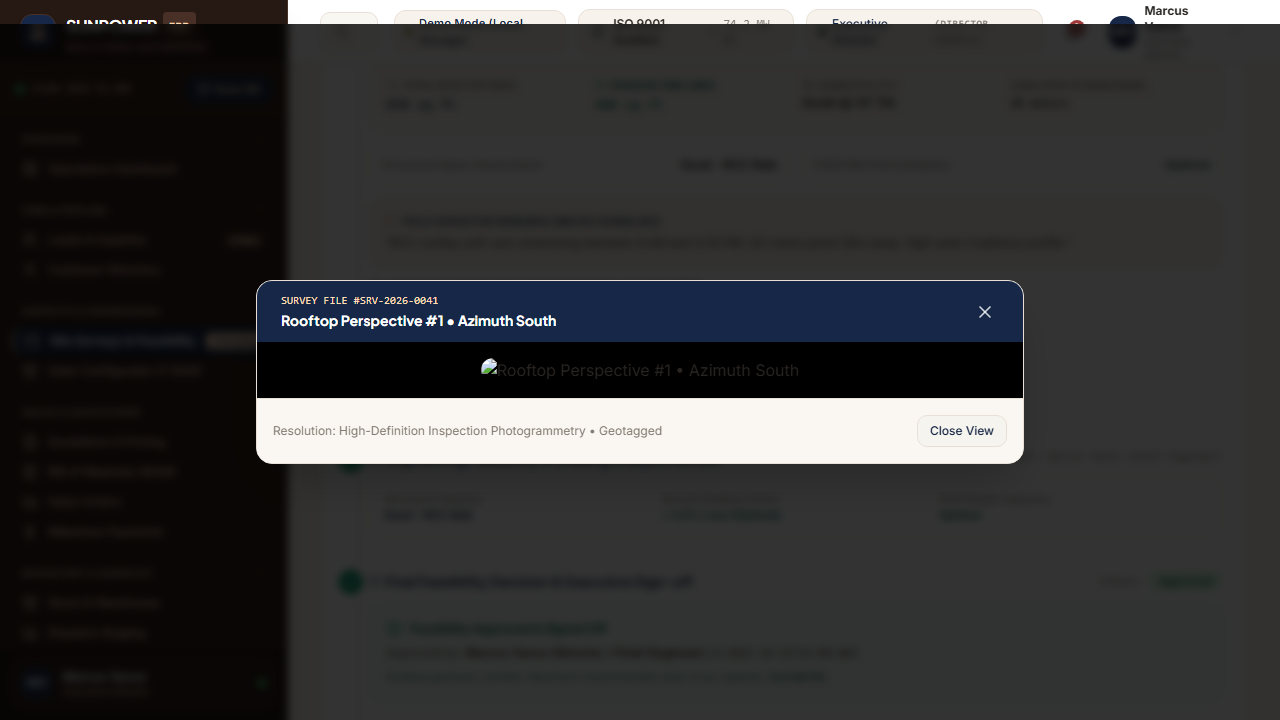
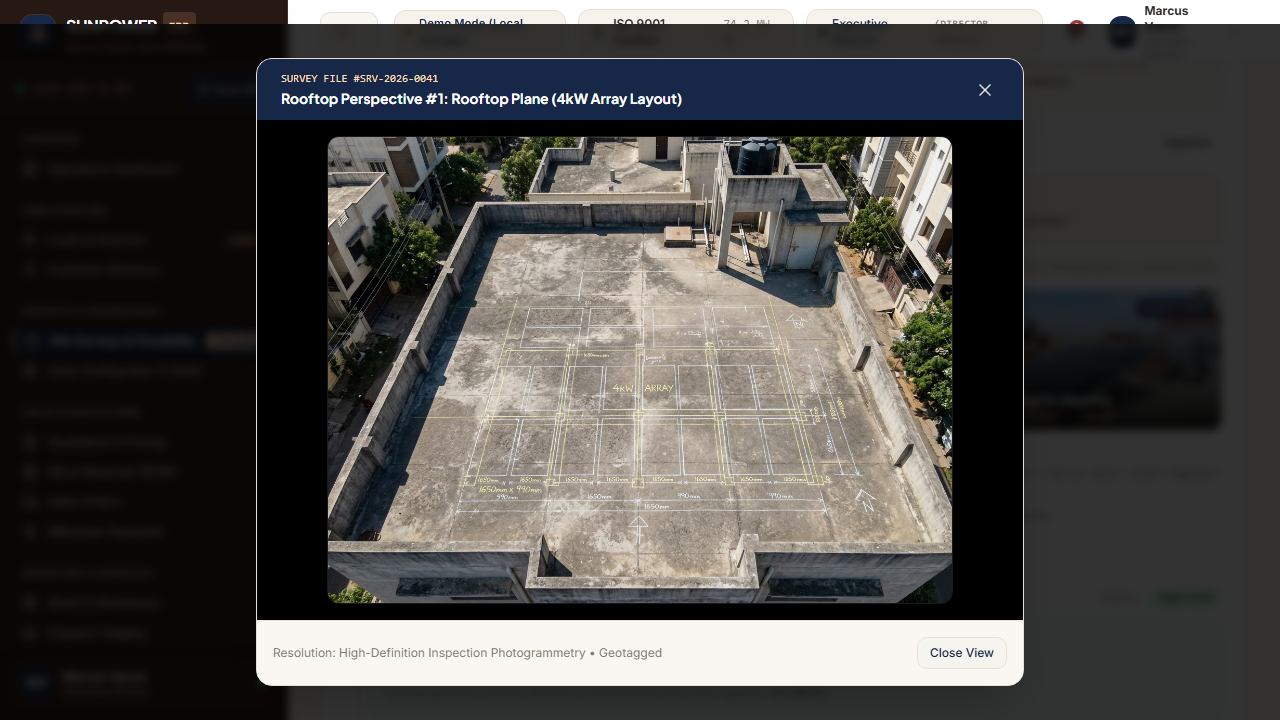
feat(surveys): add high-resolution rooftop inspection photogrammetry photos and enhance gallery UI

diff --git a/src/pages/app/surveys/SurveysPage.tsx b/src/pages/app/surveys/SurveysPage.tsx
@@ -732,48 +732,103 @@ export function SurveysPage() {
                                   </div>
 
                                   {/* Rooftop Inspection Photographs */}
-                                  <div className="space-y-2">
-                                    <span className="font-bold text-[#172747] uppercase tracking-wider text-[11px] flex items-center gap-1.5">
-                                      <Camera className="h-3.5 w-3.5 text-[#172747]" />
-                                      Rooftop Inspection Photographs ({survey.photos.length} Captured)
-                                    </span>
+                                  <div className="space-y-2.5">
+                                    <div className="flex items-center justify-between">
+                                      <span className="font-bold text-[#172747] uppercase tracking-wider text-[11px] flex items-center gap-1.5">
+                                        <Camera className="h-3.5 w-3.5 text-[#172747]" />
+                                        Rooftop Inspection Photographs ({survey.photos && survey.photos.length > 0 ? survey.photos.length : 3} Captured)
+                                      </span>
+                                      <span className="text-[10px] font-mono text-[#827B73] bg-[#FAF7F2] px-2 py-0.5 rounded border border-[#E8E0D6]">
+                                        Drone Photogrammetry • Azimuth {survey.roofDirection}
+                                      </span>
+                                    </div>
 
-                                    {survey.photos.length > 0 ? (
-                                      <div className="grid grid-cols-2 sm:grid-cols-4 gap-2.5">
-                                        {survey.photos.map((src, i) => (
-                                          <button
-                                            key={i}
-                                            type="button"
-                                            aria-label={`View full rooftop photograph ${i + 1}`}
-                                            onClick={() =>
-                                              setActivePhotoModal({
-                                                src,
-                                                title: `Rooftop Perspective #${i + 1} • Azimuth ${survey.roofDirection}`,
-                                                surveyNo: survey.surveyNo,
-                                              })
-                                            }
-                                            className="group/photo relative rounded-xl overflow-hidden h-28 border border-[#E8E0D6] cursor-pointer shadow-sm hover:border-[#172747] transition-all text-left focus:outline-none focus:ring-2 focus:ring-[#172747]"
-                                          >
-                                            <img
-                                              src={src}
-                                              alt={`Rooftop inspection photograph ${i + 1}`}
-                                              className="w-full h-full object-cover group-hover/photo:scale-105 transition-transform duration-300 pointer-events-none"
-                                            />
-                                            <div className="absolute inset-0 bg-black/40 opacity-0 group-hover/photo:opacity-100 transition-opacity flex items-center justify-center text-white gap-1 text-xs font-semibold pointer-events-none">
-                                              <Eye className="h-4 w-4" />
-                                              <span>Enlarge</span>
-                                            </div>
-                                            <span className="absolute bottom-1 right-1 bg-black/75 text-white text-[9px] px-1.5 py-0.5 rounded font-mono pointer-events-none">
-                                              Photo #{i + 1}
-                                            </span>
-                                          </button>
-                                        ))}
-                                      </div>
-                                    ) : (
-                                      <div className="p-4 rounded-xl bg-[#FAF7F2] border border-[#E8E0D6] text-center text-xs text-[#827B73]">
-                                        No photographs submitted for this site.
-                                      </div>
-                                    )}
+                                    {(() => {
+                                      const defaultGallery = (survey.id === 'srv-02' || survey.id === 'srv-06' || survey.id === 'srv-07')
+                                        ? [
+                                            '/images/surveys/rooftop-04-industrial-tin-shed.jpg',
+                                            '/images/surveys/rooftop-02-inclinometer-survey.jpg',
+                                            '/images/surveys/rooftop-01-rcc-survey.jpg',
+                                          ]
+                                        : [
+                                            '/images/surveys/rooftop-01-rcc-survey.jpg',
+                                            '/images/surveys/rooftop-02-inclinometer-survey.jpg',
+                                            '/images/surveys/rooftop-03-pv-array-completed.jpg',
+                                          ];
+
+                                      const rawPhotos = survey.photos && survey.photos.length > 0 ? survey.photos : defaultGallery;
+                                      const activePhotos = rawPhotos.map((p, idx) =>
+                                        p.includes('unsplash.com') ? defaultGallery[idx % defaultGallery.length] : p
+                                      );
+
+                                      const photoTags = [
+                                        'Rooftop Plane (4kW Array Layout)',
+                                        'Tilt Inclinometer Reading (14°)',
+                                        'PV Array & Inverter Mounting',
+                                        'Horizon Shading Analysis',
+                                      ];
+
+                                      return (
+                                        <div className="grid grid-cols-1 sm:grid-cols-3 gap-3">
+                                          {activePhotos.map((src, i) => {
+                                            const tagLabel = photoTags[i % photoTags.length];
+
+                                            return (
+                                              <button
+                                                key={i}
+                                                type="button"
+                                                aria-label={`View full rooftop photograph ${i + 1}`}
+                                                onClick={() =>
+                                                  setActivePhotoModal({
+                                                    src,
+                                                    title: `Rooftop Perspective #${i + 1}: ${tagLabel}`,
+                                                    surveyNo: survey.surveyNo,
+                                                  })
+                                                }
+                                                className="group/photo relative rounded-xl overflow-hidden h-36 border-2 border-[#E8E0D6] bg-black/5 cursor-pointer shadow-sm hover:border-[#172747] hover:shadow-md transition-all text-left focus:outline-none focus:ring-2 focus:ring-[#172747]"
+                                              >
+                                                <img
+                                                  src={src}
+                                                  alt={`Rooftop inspection photograph ${i + 1}`}
+                                                  onError={(e) => {
+                                                    e.currentTarget.onerror = null;
+                                                    e.currentTarget.src = '/images/surveys/rooftop-01-rcc-survey.jpg';
+                                                  }}
+                                                  className="w-full h-full object-cover group-hover/photo:scale-105 transition-transform duration-300 pointer-events-none"
+                                                />
+                                                <div className="absolute inset-0 bg-gradient-to-t from-black/85 via-black/25 to-transparent pointer-events-none" />
+
+                                                {/* Top Overlay Badges */}
+                                                <div className="absolute top-2 left-2 right-2 flex items-center justify-between pointer-events-none">
+                                                  <span className="bg-black/75 backdrop-blur-xs text-[#FFDDB7] text-[9px] font-mono px-2 py-0.5 rounded font-semibold border border-white/10">
+                                                    Photo #${i + 1}
+                                                  </span>
+                                                  <span className="bg-[#172747]/90 text-white text-[9px] font-mono px-1.5 py-0.5 rounded shadow-xs">
+                                                    Azimuth {survey.roofDirection}
+                                                  </span>
+                                                </div>
+
+                                                {/* Hover Enlarge Callout */}
+                                                <div className="absolute inset-0 bg-[#172747]/60 opacity-0 group-hover/photo:opacity-100 transition-opacity flex items-center justify-center text-white gap-1.5 text-xs font-semibold pointer-events-none">
+                                                  <Eye className="h-4 w-4 text-[#FFDDB7]" />
+                                                  <span>Enlarge Photogrammetry</span>
+                                                </div>
+
+                                                {/* Bottom Technical Stamp */}
+                                                <div className="absolute bottom-2 left-2 right-2 pointer-events-none">
+                                                  <p className="text-white text-[11px] font-semibold truncate leading-tight drop-shadow-sm">
+                                                    {tagLabel}
+                                                  </p>
+                                                  <p className="text-[#FFDDB7]/90 text-[8px] font-mono truncate mt-0.5">
+                                                    GPS 12.9716° N, 77.5946° E • 18m AGL
+                                                  </p>
+                                                </div>
+                                              </button>
+                                            );
+                                          })}
+                                        </div>
+                                      );
+                                    })()}
                                   </div>
                                 </>
                               ) : (
@@ -1093,7 +1148,11 @@ export function SurveysPage() {
               <img
                 src={activePhotoModal.src}
                 alt={activePhotoModal.title}
-                className="max-h-[65vh] w-auto object-contain rounded-lg shadow-md"
+                onError={(e) => {
+                  e.currentTarget.onerror = null;
+                  e.currentTarget.src = '/images/surveys/rooftop-01-rcc-survey.jpg';
+                }}
+                className="max-h-[65vh] w-auto object-contain rounded-lg shadow-md border border-white/10"
               />
             </div>
 

diff --git a/src/lib/store/solarStore.tsx b/src/lib/store/solarStore.tsx
@@ -431,8 +431,9 @@ const INITIAL_SURVEYS: SiteSurvey[] = [
     gridSuitability: 'Optimal',
     structuralStrength: 'Good - RCC Slab',
     photos: [
-      'https://images.unsplash.com/photo-1509391365360-2e959784a276?auto=format&fit=crop&w=600&q=80',
-      'https://images.unsplash.com/photo-1545209575-7076a5992a54?auto=format&fit=crop&w=600&q=80',
+      '/images/surveys/rooftop-01-rcc-survey.jpg',
+      '/images/surveys/rooftop-02-inclinometer-survey.jpg',
+      '/images/surveys/rooftop-03-pv-array-completed.jpg',
     ],
     technicianNotes: 'RCC rooftop with zero shadowing between 9 AM and 4:30 PM. AC mains panel 28m away. High solar irradiance profile.',
     status: 'approved',
@@ -456,7 +457,8 @@ const INITIAL_SURVEYS: SiteSurvey[] = [
     gridSuitability: 'Requires Grid Tie Upgrade',
     structuralStrength: 'Tin Shed - Reinforcement Needed',
     photos: [
-      'https://images.unsplash.com/photo-1508873696983-2df57046475b?auto=format&fit=crop&w=600&q=80',
+      '/images/surveys/rooftop-04-industrial-tin-shed.jpg',
+      '/images/surveys/rooftop-02-inclinometer-survey.jpg',
     ],
     technicianNotes: 'Requires purlin clamps and structure reinforcement for 5kW array. Cable run is 45 meters.',
     status: 'pending_approval',
@@ -478,7 +480,8 @@ const INITIAL_SURVEYS: SiteSurvey[] = [
     gridSuitability: 'Optimal',
     structuralStrength: 'Good - RCC Slab',
     photos: [
-      'https://images.unsplash.com/photo-1509391365360-2e959784a276?auto=format&fit=crop&w=600&q=80',
+      '/images/surveys/rooftop-01-rcc-survey.jpg',
+      '/images/surveys/rooftop-03-pv-array-completed.jpg',
     ],
     technicianNotes: 'Site visit scheduled for Wednesday. Client requested preliminary azimuth assessment.',
     status: 'scheduled',
@@ -500,7 +503,9 @@ const INITIAL_SURVEYS: SiteSurvey[] = [
     gridSuitability: 'Optimal',
     structuralStrength: 'Good - RCC Slab',
     photos: [
-      'https://images.unsplash.com/photo-1509391365360-2e959784a276?auto=format&fit=crop&w=600&q=80',
+      '/images/surveys/rooftop-01-rcc-survey.jpg',
+      '/images/surveys/rooftop-02-inclinometer-survey.jpg',
+      '/images/surveys/rooftop-03-pv-array-completed.jpg',
     ],
     technicianNotes: 'Clean south-facing roof terrace. Ready for 4 kW On-Grid installation.',
     status: 'approved',
@@ -524,7 +529,8 @@ const INITIAL_SURVEYS: SiteSurvey[] = [
     gridSuitability: 'Optimal',
     structuralStrength: 'Good - RCC Slab',
     photos: [
-      'https://images.unsplash.com/photo-1545209575-7076a5992a54?auto=format&fit=crop&w=600&q=80',
+      '/images/surveys/rooftop-02-inclinometer-survey.jpg',
+      '/images/surveys/rooftop-01-rcc-survey.jpg',
     ],
     technicianNotes: 'Survey engineer currently on site measuring parapet shading and taking azimuth angle readings.',
     status: 'in_progress',
@@ -546,7 +552,8 @@ const INITIAL_SURVEYS: SiteSurvey[] = [
     gridSuitability: 'Requires Grid Tie Upgrade',
     structuralStrength: 'Tin Shed - Reinforcement Needed',
     photos: [
-      'https://images.unsplash.com/photo-1508873696983-2df57046475b?auto=format&fit=crop&w=600&q=80',
+      '/images/surveys/rooftop-04-industrial-tin-shed.jpg',
+      '/images/surveys/rooftop-01-rcc-survey.jpg',
     ],
     technicianNotes: 'Adjacent communication tower creates afternoon shadow. High-mast drone thermography required to determine exact winter horizon angle.',
     status: 'revisit_required',
@@ -568,7 +575,10 @@ const INITIAL_SURVEYS: SiteSurvey[] = [
     cableDistanceMeters: 85,
     gridSuitability: 'Inadequate',
     structuralStrength: 'Tin Shed - Reinforcement Needed',
-    photos: [],
+    photos: [
+      '/images/surveys/rooftop-04-industrial-tin-shed.jpg',
+      '/images/surveys/rooftop-02-inclinometer-survey.jpg',
+    ],
     technicianNotes: 'Asbestos fiber cement roofing sheets degraded. High structural risk under 150 km/h wind shear.',
     status: 'rejected',
     rejectionReason: 'Brittle asbestos roof structure fails statutory IS 875 load testing. BESCOM feeder transformer operating at 98% capacity with zero net-metering headroom.',
@@ -757,7 +767,8 @@ const INITIAL_INSTALLATIONS: InstallationJob[] = [
     testedEarthResistanceOhms: 2.4,
     solarGenerationKwReading: 3.12,
     photos: [
-      'https://images.unsplash.com/photo-1509391365360-2e959784a276?auto=format&fit=crop&w=600&q=80',
+      '/images/surveys/rooftop-03-pv-array-completed.jpg',
+      '/images/surveys/rooftop-02-inclinometer-survey.jpg',
     ],
     customerSignature: 'Vikramaditya Rao (Digitally Accepted)',
     commissioningDate: '2025-04-15',
@@ -1401,8 +1412,25 @@ export function SolarStoreProvider({ children }: { children: React.ReactNode }) 
   })
 
   const [surveys, setSurveys] = useState<SiteSurvey[]>(() => {
-    const saved = localStorage.getItem('sunpower_surveys')
-    return saved ? JSON.parse(saved) : INITIAL_SURVEYS
+    try {
+      const saved = localStorage.getItem('sunpower_surveys')
+      if (saved) {
+        const parsed: SiteSurvey[] = JSON.parse(saved)
+        return parsed.map((s) => {
+          const validPhotos = (s.photos || []).filter(
+            (p) => !p.includes('unsplash.com') && p.trim() !== ''
+          )
+          if (validPhotos.length === 0) {
+            const defaults = (s.id === 'srv-02' || s.id === 'srv-06' || s.id === 'srv-07')
+              ? ['/images/surveys/rooftop-04-industrial-tin-shed.jpg', '/images/surveys/rooftop-02-inclinometer-survey.jpg']
+              : ['/images/surveys/rooftop-01-rcc-survey.jpg', '/images/surveys/rooftop-02-inclinometer-survey.jpg', '/images/surveys/rooftop-03-pv-array-completed.jpg']
+            return { ...s, photos: defaults }
+          }
+          return { ...s, photos: validPhotos }
+        })
+      }
+    } catch (e) {}
+    return INITIAL_SURVEYS
   })
 
   const [quotations, setQuotations] = useState<Quotation[]>(() => {
@@ -1421,8 +1449,25 @@ export function SolarStoreProvider({ children }: { children: React.ReactNode }) 
   })
 
   const [installations, setInstallations] = useState<InstallationJob[]>(() => {
-    const saved = localStorage.getItem('sunpower_installations')
-    return saved ? JSON.parse(saved) : INITIAL_INSTALLATIONS
+    try {
+      const saved = localStorage.getItem('sunpower_installations')
+      if (saved) {
+        const parsed: InstallationJob[] = JSON.parse(saved)
+        return parsed.map((inst) => {
+          const validPhotos = (inst.photos || []).filter(
+            (p) => !p.includes('unsplash.com') && p.trim() !== ''
+          )
+          if (validPhotos.length === 0) {
+            return {
+              ...inst,
+              photos: ['/images/surveys/rooftop-01-rcc-survey.jpg', '/images/surveys/rooftop-02-inclinometer-survey.jpg']
+            }
+          }
+          return { ...inst, photos: validPhotos }
+        })
+      }
+    } catch (e) {}
+    return INITIAL_INSTALLATIONS
   })
 
   const [warranties, setWarranties] = useState<WarrantyRecord[]>(() => {
@@ -1515,7 +1560,8 @@ export function SolarStoreProvider({ children }: { children: React.ReactNode }) 
       gridSuitability: 'Optimal',
       structuralStrength: 'Good - RCC Slab',
       photos: [
-        'https://images.unsplash.com/photo-1509391365360-2e959784a276?auto=format&fit=crop&w=600&q=80',
+        '/images/surveys/rooftop-01-rcc-survey.jpg',
+        '/images/surveys/rooftop-02-inclinometer-survey.jpg',
       ],
       technicianNotes: 'Scheduled rooftop inspection.',
       status: 'scheduled',
